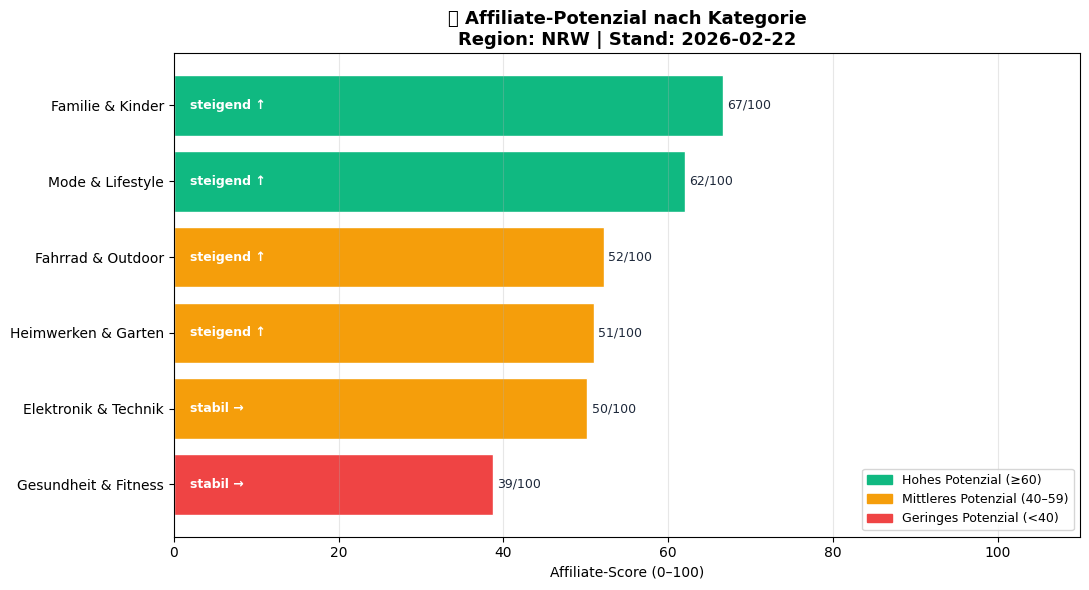
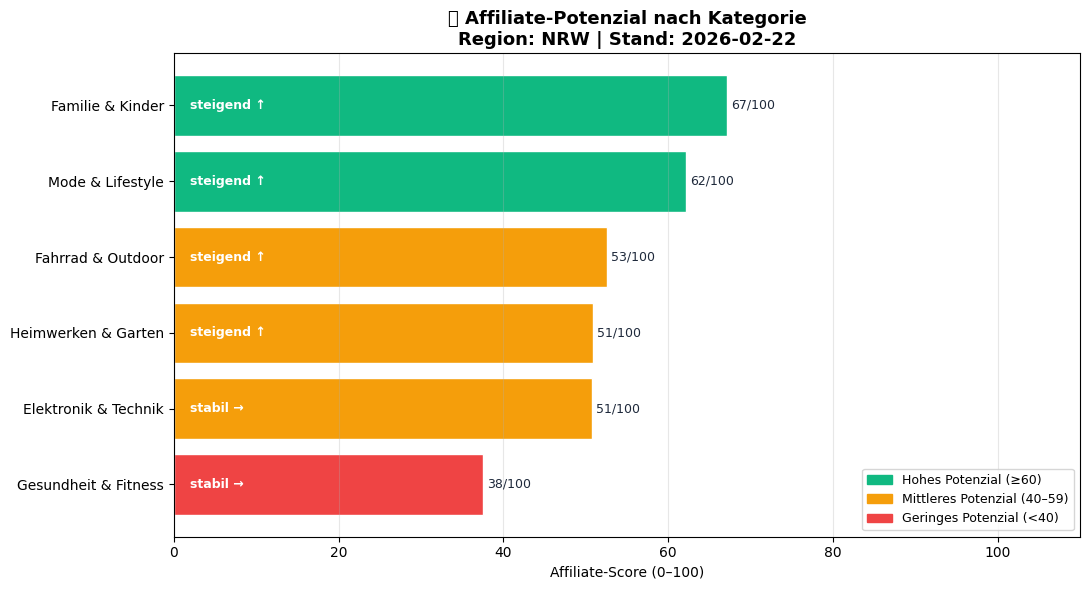
📊 Tägliches Update 2026-02-22

diff --git a/reports/affiliate_report_2026-02-22.md b/reports/affiliate_report_2026-02-22.md
@@ -6,17 +6,17 @@ Region: Nordrhein-Westfalen (Fokus: Castrop-Rauxel)
 ## 🏆 TOP CHANCEN DIESE WOCHE
 
 🥇 **Familie & Kinder** (Score: 67/100)
-   Trend: steigend ↑ | Veränderung: +5.2%
+   Trend: steigend ↑ | Veränderung: +5.7%
    Keywords: Kinderfahrrad, Spielzeug kaufen, Kinderwagen, Schulranzen, Babyausstattung
    Empfohlene Partner: Amazon, myToys, baby-walz, Jako-o
 
 🥈 **Mode & Lifestyle** (Score: 62/100)
-   Trend: steigend ↑ | Veränderung: +20.5%
+   Trend: steigend ↑ | Veränderung: +21.0%
    Keywords: Winterjacke kaufen, Sneaker, Kleidung online, Handtasche, Schmuck
    Empfohlene Partner: Zalando, AboutYou, Amazon, Otto
 
-🥉 **Fahrrad & Outdoor** (Score: 52/100)
-   Trend: steigend ↑ | Veränderung: +27.1%
+🥉 **Fahrrad & Outdoor** (Score: 53/100)
+   Trend: steigend ↑ | Veränderung: +31.9%
    Keywords: Fahrrad kaufen, E-Bike, Fahrradreparatur, Camping, Wanderschuhe
    Empfohlene Partner: Decathlon, Amazon, Fahrrad.de, Bergfreunde
 
@@ -33,12 +33,12 @@ Saison: **Winter** – passende Artikel:
 ## 📋 ALLE KATEGORIEN IM ÜBERBLICK
 
               gruppe      trend  affiliate_score                               empfohlene_partner
-    Familie & Kinder steigend ↑             66.7                Amazon, myToys, baby-walz, Jako-o
-    Mode & Lifestyle steigend ↑             62.0                  Zalando, AboutYou, Amazon, Otto
-   Fahrrad & Outdoor steigend ↑             52.2       Decathlon, Amazon, Fahrrad.de, Bergfreunde
- Heimwerken & Garten steigend ↑             51.0                   OBI, Hornbach, Amazon, Bauhaus
-Elektronik & Technik   stabil →             50.2 MediaMarkt, Amazon, Alternate, Notebooksbilliger
-Gesundheit & Fitness   stabil →             38.7          Myprotein, Amazon, SportScheck, Gymondo
+    Familie & Kinder steigend ↑             67.2                Amazon, myToys, baby-walz, Jako-o
+    Mode & Lifestyle steigend ↑             62.2                  Zalando, AboutYou, Amazon, Otto
+   Fahrrad & Outdoor steigend ↑             52.6       Decathlon, Amazon, Fahrrad.de, Bergfreunde
+ Heimwerken & Garten steigend ↑             50.9                   OBI, Hornbach, Amazon, Bauhaus
+Elektronik & Technik   stabil →             50.8 MediaMarkt, Amazon, Alternate, Notebooksbilliger
+Gesundheit & Fitness   stabil →             37.5          Myprotein, Amazon, SportScheck, Gymondo
 
 
 ## 🛠 NÄCHSTE SCHRITTE
